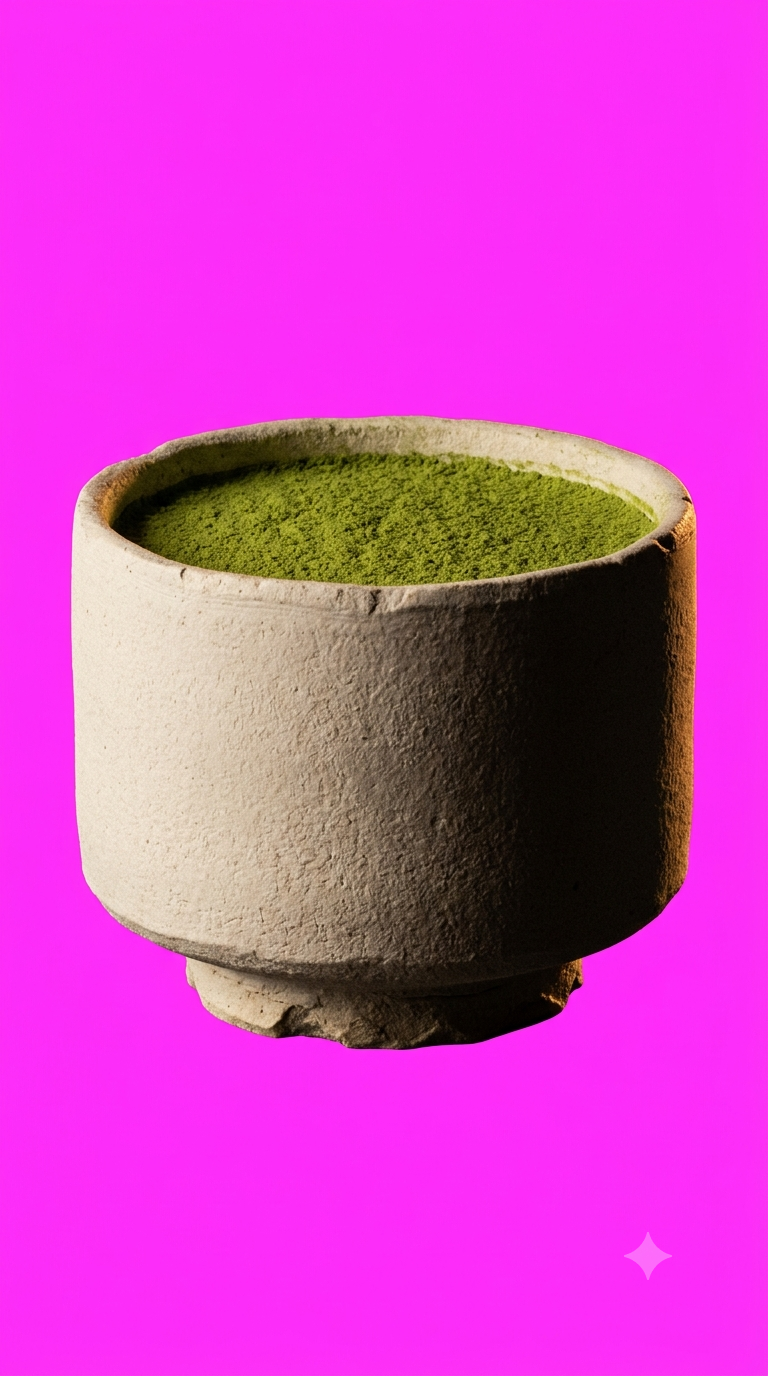
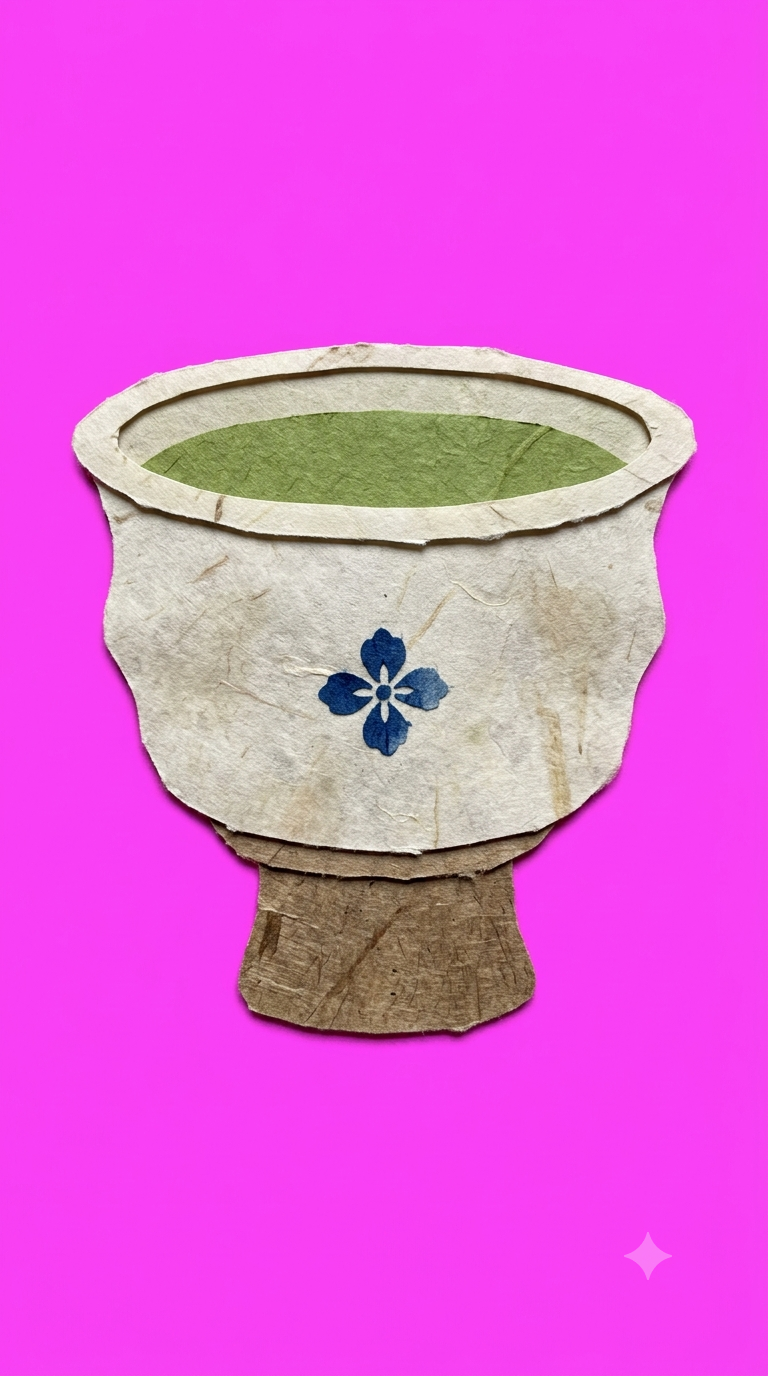
Goods-Groesse aus der gemessenen Deckung ableiten, Kiri-e-Testrenders
Die Pipeline zieht jedes Item auf dieselbe Kantenlaenge. Wie viel davon
Motiv ist, schwankt aber stark: die Tetsubin deckt 40 % der Textur ab (der
Buegelbogen ist Luft), der Chawan 62 %. Auf gleiche Box gezogen wirkte der
Chawan dadurch deutlich groesser als die Kanne.

Die Pipeline exportiert die Deckung jetzt als ITEM_COVERAGE_RATIOS, das
Spiel leitet daraus den Groessenfaktor ab: sqrt(Median / Deckung), begrenzt
auf 0.8 bis 1.25. Der Faktor gleicht damit die Flaeche an statt der Kante,
und der Bezug auf den Median macht ihn unabhaengig davon, wie gross die
Renders insgesamt ausfallen. Fuer das Paar Tetsubin/Chawan kommt 0.80 heraus
-- derselbe Wert, den der Augenschein liefert. Der handgesetzte Eintrag
chawan_cup: 0.8 entfaellt; ITEM_SIZE_OVERRIDES bleibt fuer Gegenstaende, die
in echt aus der Reihe fallen.

Dazu die beiden Kiri-e-Testrenders. Diesmal ist es echtes geschnittenes
Papier: Kozo-Faser, unregelmaessige Schnittkanten, Lagenschatten. Gemessen
Tetsubin 75 bei 40 % Deckung, Chawan 170 bei 62 % -- Wertabstand 95 Punkte
gegen 77 bei den fotorealistischen Vorgaengern.

Claude-Session: https://claude.ai/code/session_01LDDNofsiazQ5M4NaT3iYa4

diff --git a/src/main.ts b/src/main.ts
@@ -1,7 +1,7 @@
 import '@fontsource/m-plus-rounded-1c/latin-500.css';
 import '@fontsource/m-plus-rounded-1c/latin-800.css';
 import Phaser from 'phaser';
-import { ITEM_BOTTOM_OFFSETS, BG_CAVITY_RATIOS, BG_CAVITY_RECTS, BG_FRAME_RECTS, SHELF_PLATFORM_RATIOS, AVAILABLE_ASSETS, ASSET_EXT } from './item_offsets.generated';
+import { ITEM_BOTTOM_OFFSETS, ITEM_COVERAGE_RATIOS, BG_CAVITY_RATIOS, BG_CAVITY_RECTS, BG_FRAME_RECTS, SHELF_PLATFORM_RATIOS, AVAILABLE_ASSETS, ASSET_EXT } from './item_offsets.generated';
 
 // ==========================================
 // 1. CMF DESIGN SYSTEM & ITEM REGISTRY
@@ -142,15 +142,36 @@ function getLayoutScale(width: number): number {
   return Math.min(width / (DESIGN_WIDTH * DPR), 1.15) * DPR;
 }
 
-// Feinjustierung einzelner Goods gegenueber der Einheitsgroesse. Der Render
-// bestimmt, wie viel Leinwand ein Objekt einnimmt -- der Chawan fiel dadurch
-// deutlich groesser aus als die uebrigen Items.
-const ITEM_SIZE_FACTORS: Record<string, number> = {
-  chawan_cup: 0.8
-};
+// Groessennormalisierung: gleiche sichtbare Masse statt gleicher Bounding Box.
+//
+// Die Pipeline zieht jedes Item auf dieselbe Kantenlaenge. Wie viel davon
+// tatsaechlich Motiv ist, schwankt aber stark -- die Tetsubin deckt 40 % ab
+// (der Buegelbogen ist Luft), der Chawan 62 %. Auf gleiche Box gezogen wirkt
+// der Chawan dadurch deutlich groesser als die Kanne.
+//
+// Der Faktor gleicht die Flaeche an, nicht die Kante: bei doppelter Deckung
+// braucht es die Wurzel aus zwei weniger Kantenlaenge. Bezugswert ist der
+// Median des Katalogs, das Ergebnis ist also unabhaengig davon, wie gross die
+// Renders insgesamt ausfallen.
+const ITEM_SIZE_MIN = 0.8;
+const ITEM_SIZE_MAX = 1.25;
+
+// Manuelle Ausnahmen fuer Gegenstaende, die in echt aus der Reihe fallen.
+const ITEM_SIZE_OVERRIDES: Record<string, number> = {};
+
+const COVERAGE_MEDIAN = (() => {
+  const values = Object.values(ITEM_COVERAGE_RATIOS).filter(v => v > 0).sort((a, b) => a - b);
+  return values.length ? values[values.length >> 1] : 0;
+})();
 
 function getItemSizeFactor(itemId: string): number {
-  return ITEM_SIZE_FACTORS[itemId] ?? 1;
+  const override = ITEM_SIZE_OVERRIDES[itemId];
+  if (override !== undefined) return override;
+
+  const coverage = ITEM_COVERAGE_RATIOS[itemId];
+  if (!coverage || !COVERAGE_MEDIAN) return 1;
+
+  return Phaser.Math.Clamp(Math.sqrt(COVERAGE_MEDIAN / coverage), ITEM_SIZE_MIN, ITEM_SIZE_MAX);
 }
 
 // Ruhelage eines Goods auf dem Brett. platformY ist die Auflageflaeche in

diff --git a/scripts/process_assets.js b/scripts/process_assets.js
@@ -682,6 +682,7 @@ async function processImages() {
   });
 
   const offsets = {};
+  const coverages = {};
   const cavities = {};
   const cavityRects = {};
   const frameRects = {};
@@ -842,8 +843,18 @@ async function processImages() {
       ? parseFloat(((bounds.bottom + 1 - processedInfo.height / 2) * (ITEM_DISPLAY_SIZE / processedInfo.height)).toFixed(2))
       : DEFAULT_OFFSET;
 
+    // Deckung: Anteil deckender Pixel an der Texturflaeche. Die Bounding Box
+    // ist als Groessenmass unbrauchbar -- eine Tetsubin deckt davon nur 40 % ab
+    // (der Buegelbogen ist Luft), ein Chawan 62 %. Gleiche Box heisst dadurch
+    // ungleiche sichtbare Masse. Das Spiel leitet den Groessenfaktor hieraus ab.
+    let opaque = 0;
+    for (let i = 0; i < processedInfo.width * processedInfo.height; i++) {
+      if (processedData[i * 4 + 3] > 200) opaque++;
+    }
+    coverages[baseName] = parseFloat((opaque / (processedInfo.width * processedInfo.height)).toFixed(4));
+
     offsets[baseName] = offsetDesign;
-    console.log(`  ${baseName}: finalBottom=${bounds.bottom}px → ${offsetDesign}px design`);
+    console.log(`  ${baseName}: finalBottom=${bounds.bottom}px → ${offsetDesign}px design, Deckung ${(coverages[baseName] * 100).toFixed(0)}%`);
   }
 
   // Fehlende Items auf Default setzen
@@ -892,6 +903,10 @@ async function processImages() {
     .map(id => `  '${id}'`)
     .join(',\n');
 
+  const coverageLines = Object.keys(coverages).sort()
+    .map(id => `  ${id}: ${coverages[id]}`)
+    .join(',\n');
+
   const cavityLines = Object.keys(cavities).sort()
     .map(id => `  ${id}: ${cavities[id]}`)
     .join(',\n');
@@ -919,6 +934,12 @@ ${frameLines}
 // Auflageflaeche eines Regalbretts als Anteil seiner Bildhoehe.
 export const SHELF_PLATFORM_RATIOS: Record<string, number> = {
 ${platformLines}
+};
+
+// Anteil deckender Pixel an der Texturflaeche je Item. Bezugsgroesse fuer die
+// Groessennormalisierung im Spiel -- die Bounding Box taugt dafuer nicht.
+export const ITEM_COVERAGE_RATIOS: Record<string, number> = {
+${coverageLines}
 };
 
 // Dateiendung der erzeugten Texturen. Der Loader haengt sie an den Asset-Key an.

diff --git a/src/item_offsets.generated.ts b/src/item_offsets.generated.ts
@@ -47,6 +47,31 @@ export const SHELF_PLATFORM_RATIOS: Record<string, number> = {
   shelf_wood: 0.6769
 };
 
+// Anteil deckender Pixel an der Texturflaeche je Item. Bezugsgroesse fuer die
+// Groessennormalisierung im Spiel -- die Bounding Box taugt dafuer nicht.
+export const ITEM_COVERAGE_RATIOS: Record<string, number> = {
+  brass_sphere: 0.7425,
+  cast_iron_bell: 0.5867,
+  chasen_whisk: 0.4626,
+  chashaku_scoop: 0.3289,
+  chawan_cup: 0.6239,
+  coldbrew_flask: 0.3267,
+  copper_caddy: 0.807,
+  dango_plate: 0.391,
+  dango_stick: 0.1869,
+  gotoku_trivet: 0.3981,
+  incense_burner: 0.4143,
+  kissa_toast: 0.6763,
+  kuro_mame_dome: 0.3439,
+  matcha_montblanc: 0.5169,
+  matcha_roll: 0.6951,
+  mizuhiki_knot: 0.7587,
+  origami_dripper: 0.5294,
+  shou_sugi_block: 0.8194,
+  tetsubin_kettle: 0.4027,
+  yokan_prism: 0.5808
+};
+
 // Dateiendung der erzeugten Texturen. Der Loader haengt sie an den Asset-Key an.
 export const ASSET_EXT = 'webp';
 
